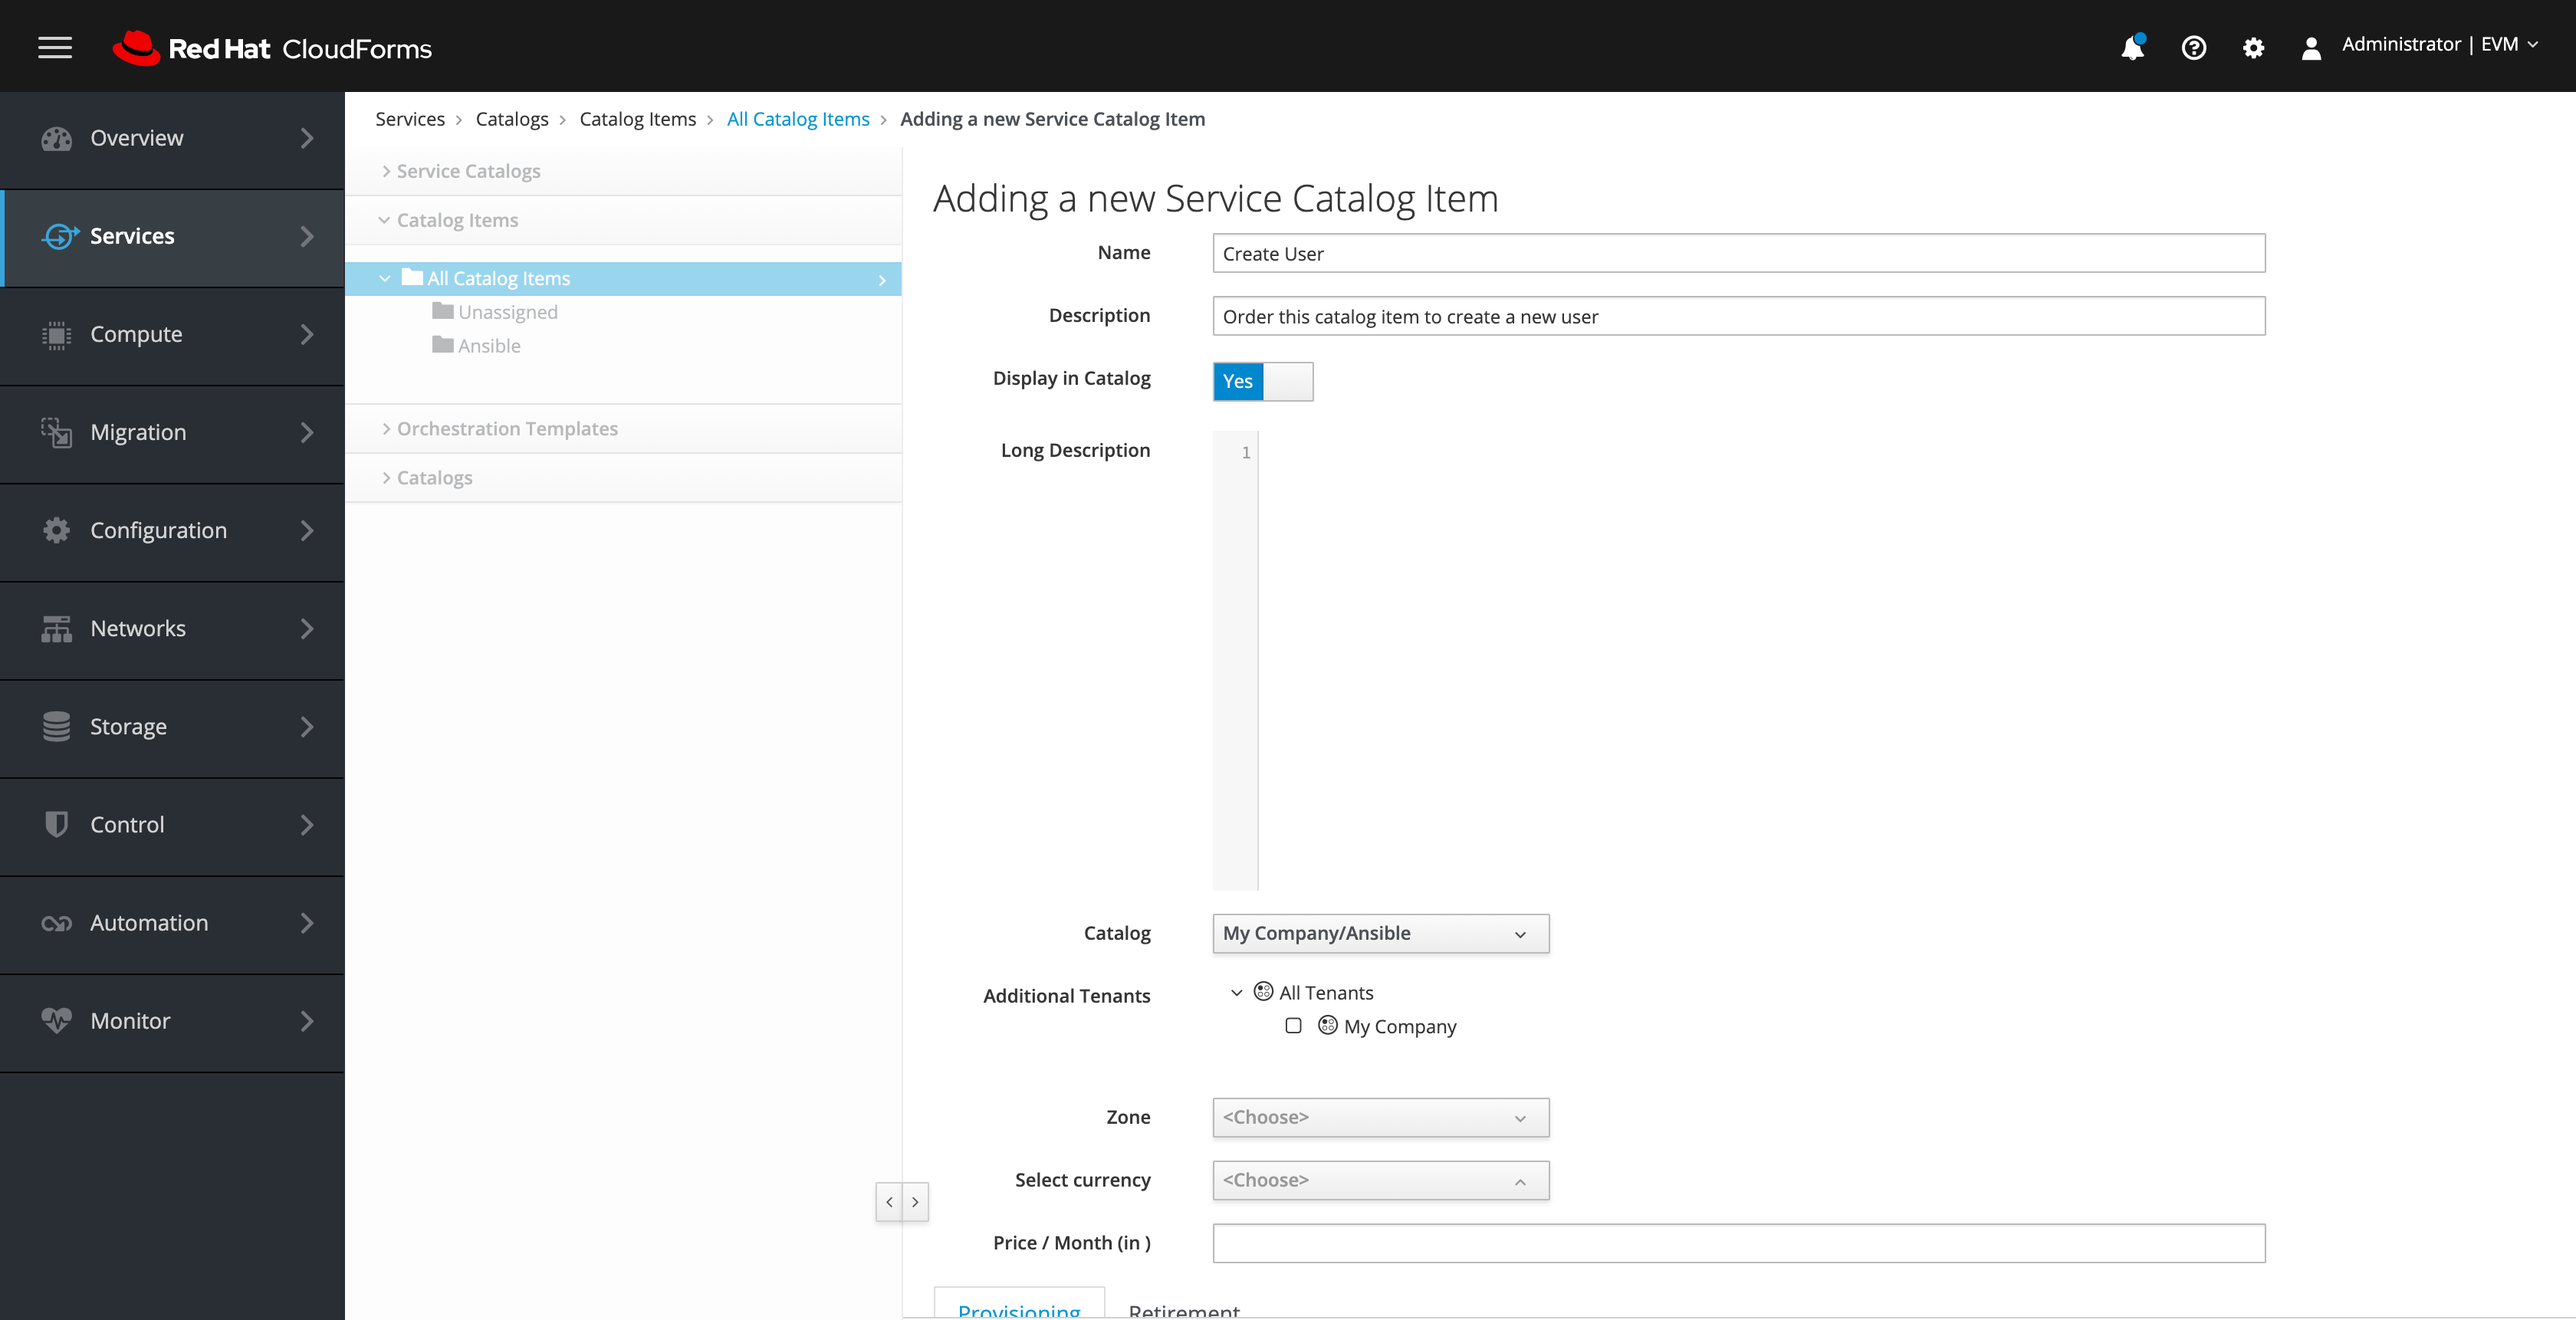
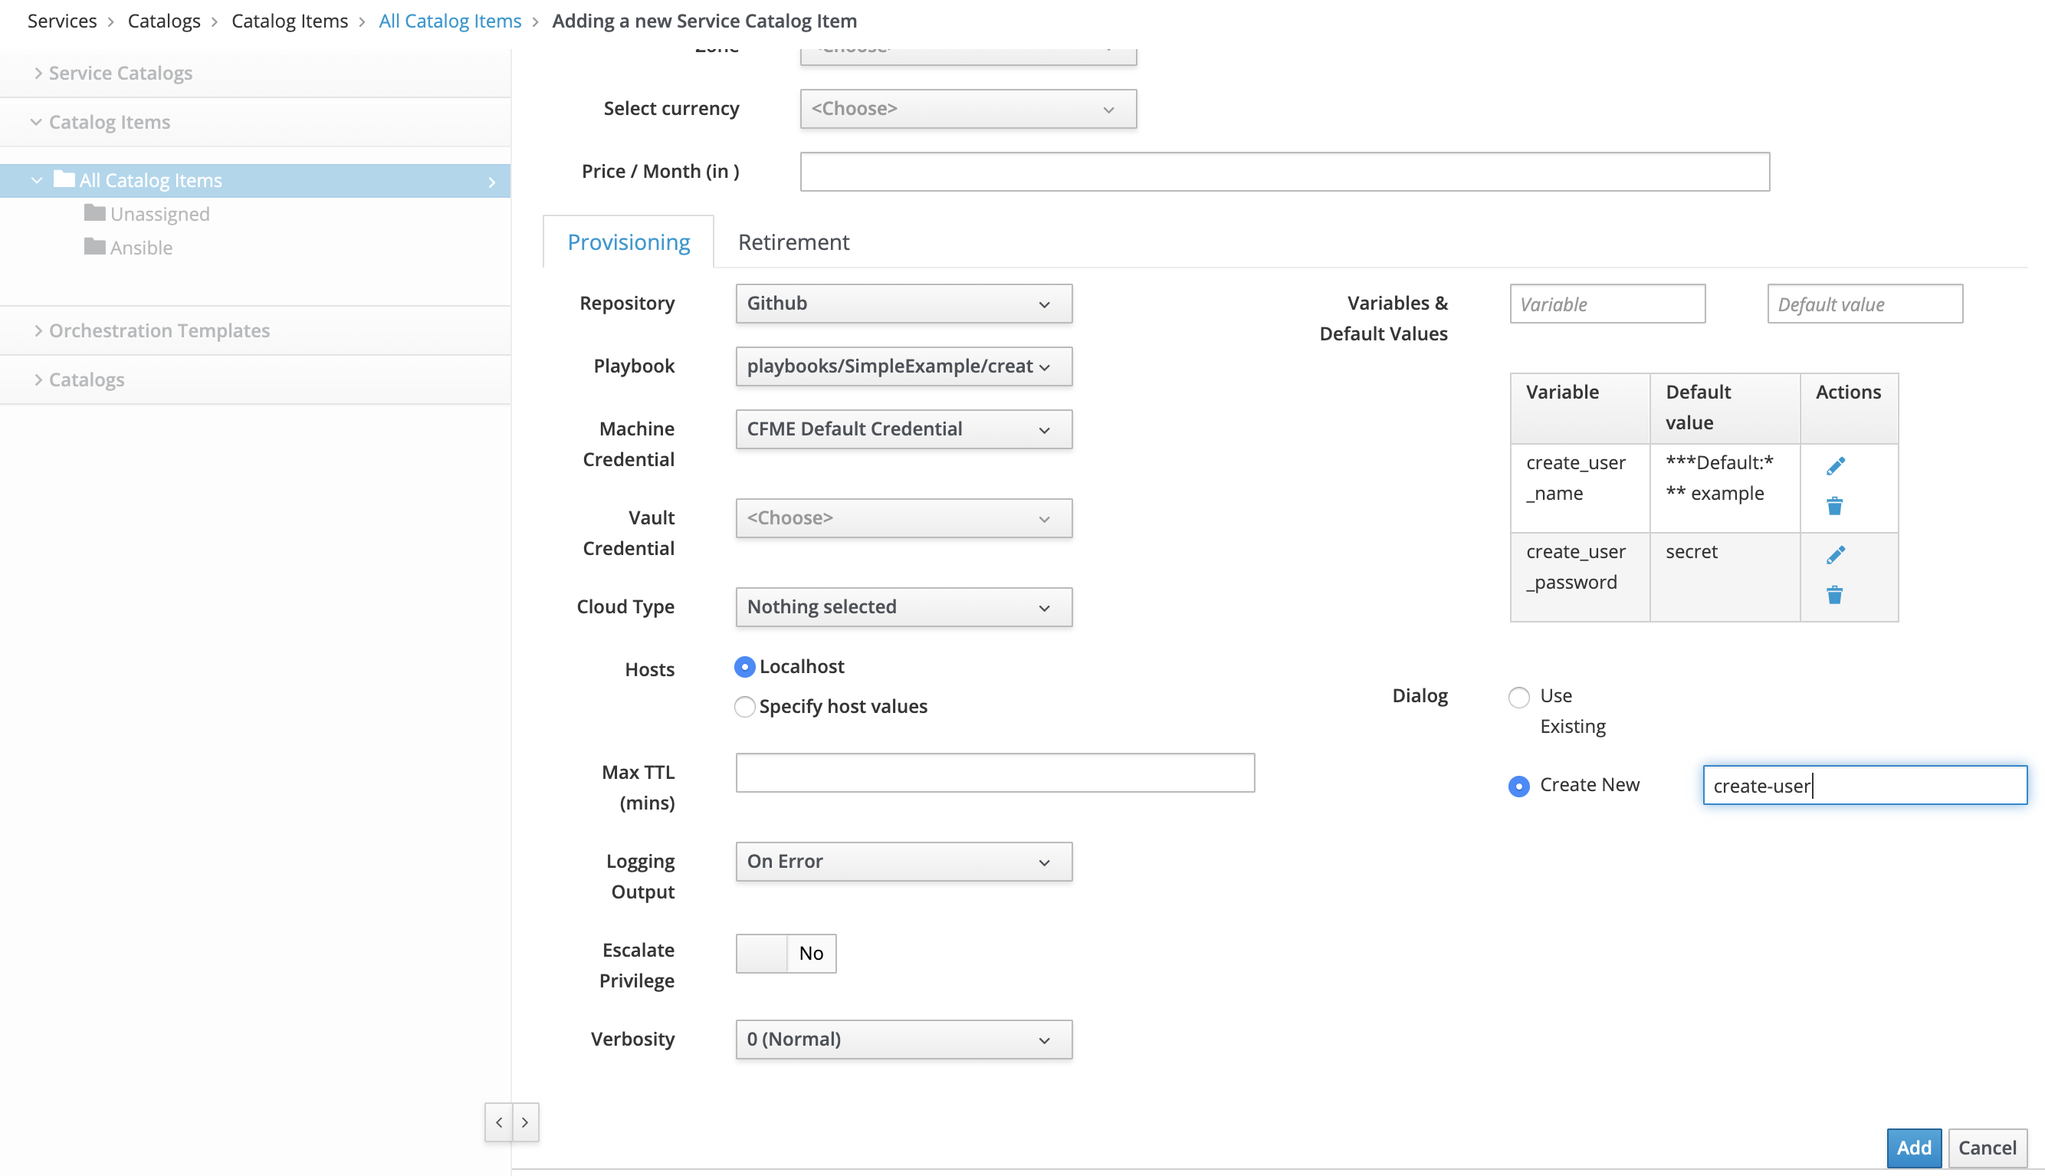
ansible

diff --git a/cloudforms+ansible101/lab/index.md b/cloudforms+ansible101/lab/index.md
@@ -335,7 +335,7 @@ In order to use the Ansible VMware modules you need to install a python library 
 
 ### Build a Service Catalog to create and delete users
 
-In this lab we will use an Ansible Playbook to create a local user in CloudForms. This example will also demonstrate how we can define a retirement process as well. In CloudForms' understanding of complete life cycle management, every object has a provisioning and a retirement workflow.
+In section of the lab we will use an Ansible Playbook to create a local user in CloudForms. This example will also demonstrate how we can define a retirement process as well. In CloudForms' understanding of complete life cycle management, every object has a provisioning and a retirement workflow.
 
 ### Create a Service Catalog for Ansible Playbooks
 
@@ -377,7 +377,7 @@ In this lab we will use an Ansible Playbook to create a local user in CloudForms
 
     ***Long description:*** Leave it blank
 
-    ***Catalog:*** Ansible
+    ***Catalog:*** My Company/Ansible
 
     ***Repository:*** Github
 
@@ -495,6 +495,7 @@ To make sure the user was really created, follow these steps.
 
     ![logout](img/logout.png)
 
+<!--
 ### Build a Service Catalog to deploy Virtual Machines
 
 In this second part of the lab we want to use an Ansible Playbook to deploy a Virtual Machine in VMware vCenter. The necessary Playbook should already be in your repository.
@@ -646,171 +647,11 @@ When executing an Ansible Playbook with the embedded role in CloudForms, a "Serv
     If the Playbook execution has not completed, you can click the reload icon to refresh the information. The ***Reload*** icon is represented by a little arrow, left of the ***Configuration*** menu.
 
     ![reload icon](img/reload-icon.png)
-
-### Extend CloudForms builtin Capabilities
-
-In this lab you have so far learned how to use Ansible Playbooks to orchestrate and execute configuration actions. CloudForms is internally using a powerful and extensible framework that defines what happens "under the hood". This feature is called "Automate". "Automate" allows us to understand how things are done and even more interestingly, it allows us to add features which are not coming out of the box.
-
-"Automate" code can either be developed directly in the User Interface, or it can be imported from a Git repository. For this lab we want to keep things simple. We will add a Git repository with a simple method to make the Service Dialog easier to use.
-
-### Add a Git repository for Automate
-
-"Automate" code can either be developed and written directly in the CloudForms Web UI, or it can be imported from a Git repository. We will do the latter:
-
-1. Navigate to ***Automation*** -> ***Automate*** -> ***Import/Export***
-
-    ![navigate to automate import/export](img/navigate-to-automate-import-export.png)
-
-1. Use the following URL to access the Git repository:
-
-    [https://github.com/cbolz/partner-conference-2017-labs.git](https://github.com/cbolz/partner-conference-2017-labs.git)
-
-    ![adding the Automate Git repository](img/adding-automate-git.png)
-
-1. Click ***Submit***. It will take a few moments to check the Git repository.
-
-1. The "Branch/Tag" and "Branch" fields allow us to import different tags or branches, for example "Development", "Testing", "QA", etc.
-
-    For this lab, we stick with the defaults and click on ***Submit***
-
-    ![select Automate tag or branch](img/select-automate-tag-branch.png)
-
-1. The first import can take a few moments. After that you should see the following confirmation:
-
-    ![after first Automate import](img/after-first-automate-import.png)
-
-### Verify Automate import
-
-We want to make sure the Automate Code was properly imported.
-
-1. Navigate to ***Automation*** -> ***Automate*** -> ***Explorer***
-
-    ![navigate to Automate Explorer](img/navigate-to-automate-explorer.png)
-
-1. "Automate" code is organized in "Datastores". Two Datastores are shipped with CloudForms:
-
-    - ManageIQ: These methods are a verbatim copy of the Open Source Community version
-    - RedHat: These methods are only shipped with Red Hat CloudForms and are supported by Red Hat
-
-    You can now see an additional third Datastore called "PConf17", which is the one you just imported. Users can create as many additional datastores as they want, but they can not modify or delete the two datastores shipped with the product. Datastores are stacked and prioritized which allows separation of out of the box functionality from custom code.
-
-    The screenshot was created after expanding all folders (which are actually called "Namespaces" and "Classes":
-
-    ![Automate with custom method](img/automate-with-custom-method.png)
-
-This concludes the preparation for the next part of the lab.
-
-### Optimize the Dialog
-
-The Service Dialog we created so far, is not ideal for most use cases. We want users to focus on getting their service as quickly and easily as possible. An ideal Service Dialog only asks the absolutely necessary questions. With this in mind, we can optimize the automatically created Service Dialog created in the previous part of the lab.
-
-1. Navigate to ***Automation*** -> ***Automate*** -> ***Customization***
-
-    ![navigate to customization](img/navigate-to-customization.png)
-
-1. Click on ***Service Dialog*** in the accordion on the left
-
-    ![navigate to service dialogs](img/service-dialog-accordion.png)
-
-1. Click on the Dialog which was created in the previous step "provision-vm-vcenter"
-
-1. Click on ***Configuration*** -> ***Copy this Dialog***. We want to keep the original version of the Dialog, which will allow us to have a backup.
-
-1. Edit the Label and Description to something a bit more meaningful
-
-    ***Label:*** provision-vm-vcenter-v2
-
-    ***Description:*** Optimized version of the Service Dialog
-
-    ***Note:*** Do not click on ***Add*** yet, we want to do some more changes!
-
-1. We want to do several changes on this Dialog.
-
-    Change the Label to something more meaningful:
-
-    ***Label:*** provision-vm-vcenter-v2
-
-1. The elements in the "Options" box will always be left to the default values for our Service Catalog Item to work. Since our users are never going to change any of the field in the "Options" box, we can simply delete the entire box.
-
-    Click on the Box "Options" and then on the little trash bin icon to delete it and all its child elements.
-
-    ![delete options box](img/delete-options-box.png)
-
-    ***Note:*** Make sure you have highlighted the correct element! If you deleted the wrong element by accident, you can click on ***Cancel*** and start over.
-
-1. The ESXi host which will actually create the virtual machine, is always the same in this lab. We can hide the element to simplify the Dialog further.
-
-    Click on the Element "esxi_host" and unselect the "visible" box
-
-    ![make host invisible](img/esxi-visibility.png)
-
-1. The same applies for the "Datacenter". In this lab, there is only one.
-
-    ![make datacenter invisible](img/datacenter-visibility.png)
-
-1. To finish the our optimizations, we want to make the vCenter a dynamic drop down. Instead of providing possible values as a hard coded list, or asking the user for manual input, we can use program code to create a list of applicable options.
-
-    In this example, we want the list of available vCenters dynamically populated (Although there is still only one vCenter and the value is questionable at best. But it's a good example of CloudForms' capabilities nonetheless)
-
-    Click on the Element "vcenter_hostname" and change the type to "Drop down list". Then click the check box "Dynamic". This will change the form and show us new fields:
-
-    ![form after selecting dynamic](img/vcenter-dynamic-checked.png)
-
-    Click on "Entry Point". A window will pop up which allows us to specify which method instance should be called to populate this Element.
-
-    Select the Instance called "get_vcenter_list" and click ***Apply***.
-
-    ![select get_vcenter_list instance](img/get_vcenter_list-instance.png)
-
-    The resulting Service Dialog Element should look like this:
-
-    ![vcenter dynamic drop down list](img/vcenter-dynamic-drop-down.png)
-
-1. Click on ***Add** to save all changes
-
-### Update the Service Catalog Item
-
-We have to change the Service Catalog Item to use the Service Dialog we just created.
-
-1. Navigate to ***Services*** -> ***Catalogs***
-
-    ![navigate to service catalogs](img/navigate-to-service-catalog.png)
-
-1. Navigate to ***Catalog Items*** in the accordion on the left and click on the "Provision Virtual Machine" Service Catalog Item
-
-    ![navigate to catalog items](img/vm-prov-service-catalog-item.png)
-
-1. Click on ***Configuration*** -> ***Edit this Item***
-
-1. In the ***Dialog*** Section of the UI, change the value from "provision-vm-vcenter" to "provision-vm-vcenter-v2"
-
-    ![change dialog to provision-vm-vcenter-v2](img/dialog-vm-provision-vcenter-v2.png)
-
-1. Click ***Save*** to commit the changes
-
-### Test the new Service Dialog
-
-We want to see how the resulting Service Catalog Item looks like.
-
-1. Navigate to ***Services*** -> ***Catalogs***
-
-    ![navigate to service catalogs](img/navigate-to-service-catalog.png)
-
-1. Make sure you are on the "Service Catalogs" tab in the accordion on the left
-
-1. Order the "Provision Virtual Machine" Service Catalog Item
-
-    ![provision virtual machine](img/provision-vm-catalog-item.png)
-
-1. Note the Service Dialog has changed compared to before. You should notice a few fields are gone and the vCenter is now a drop down list. "vCenter" should already be selected for you.
-
-    ![new provision virtual machine dialog](img/order-new-virtual-machine-dialog.png)
-
-1. If you want, you can go ahead and submit the order
+    -->
 
 ## Policies and Ansible
 
-In this lab we will cover how to create an action in CoudForms that executes an Ansible Playbook. This is not meant to be a real world example, but instead, a way to demonstrate the power of Ansible in combination with the CloudForms control policies. 
+In section of the lab we will cover how to create an action in CoudForms that executes an Ansible Playbook. This is not meant to be a real world example, but instead, a way to demonstrate the power of Ansible in combination with the CloudForms control policies.
 
 ### Creating the Service
 
@@ -818,7 +659,7 @@ Control Policies drive Control Actions. Ansible Playbooks can now be executed as
 
 First we need to create a Catalog to store the service in, do this by clicking Services/Catalogs and create new by clicking Configuration button and selecting Add New Catalog.
 
-### Create a Service Catalog Item for the Playbook
+### Create a Service Catalog Item for the policy Playbook
 
 1. Navigate to ***Services*** -> ***Catalogs***
 
